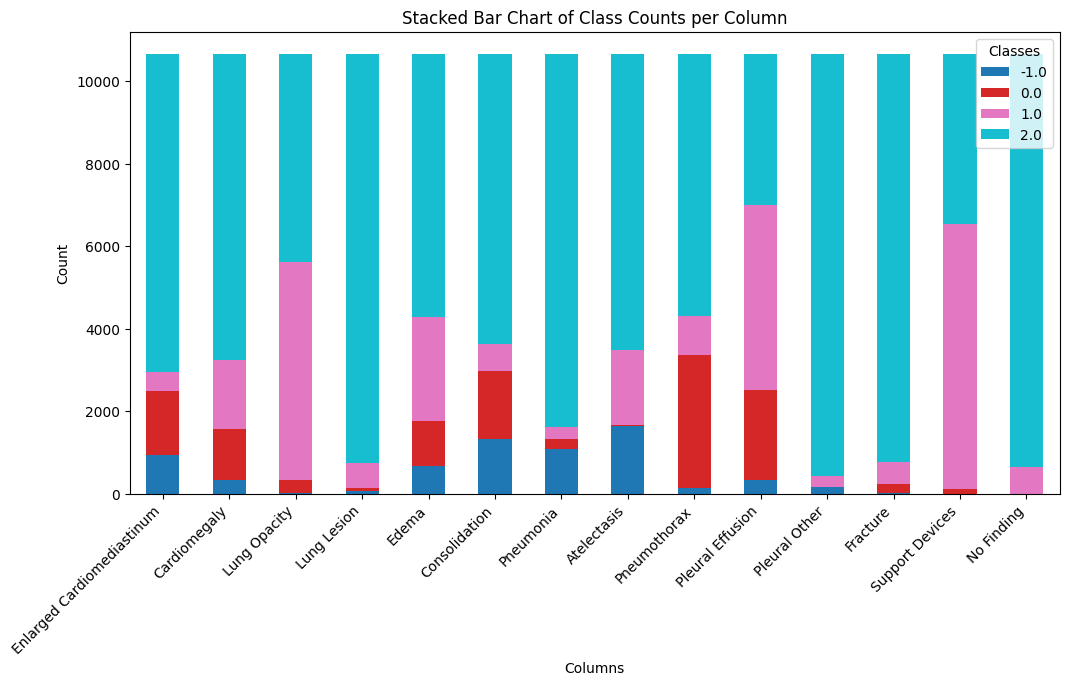
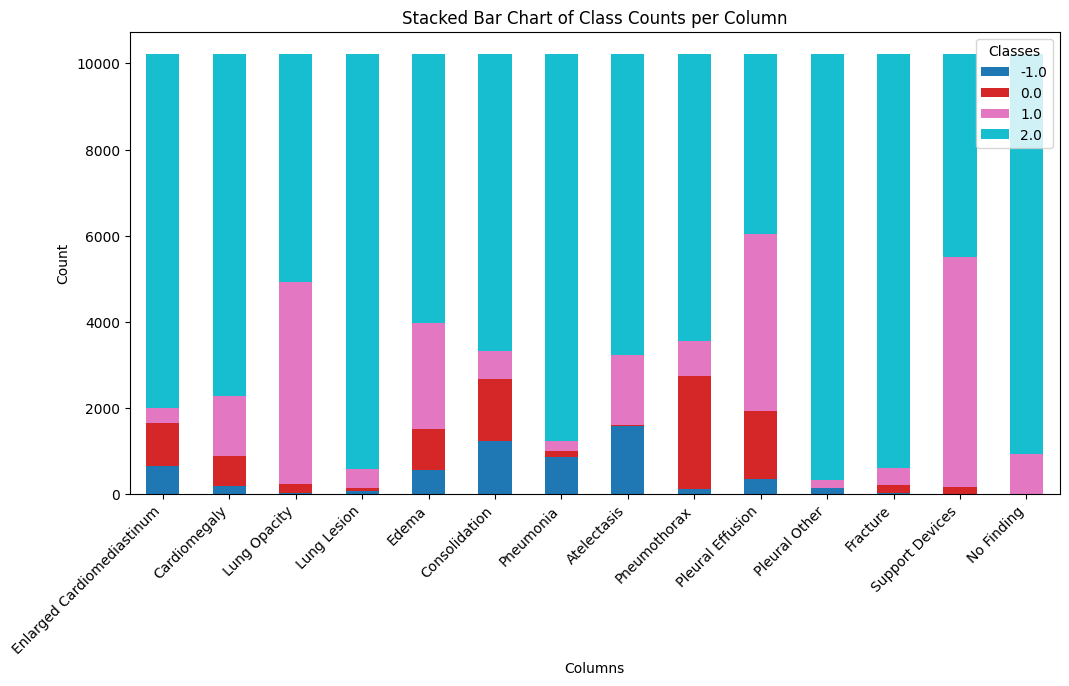
changed from report fixed to impression fixed

diff --git a/leaderboard/README.md b/leaderboard/README.md
@@ -13,7 +13,7 @@ For this leaderboard, we are using radiological reports dataset of chexpert plus
 
 About the Data:
 1. Using subset of the above data, the data above contains 187,711 reports, we would be using 10k subset from the above
-2. You can access the data on the above link, and file will be using "report_fixed.json", each report is classified into 14 pathological classes namely:
+2. You can access the data on the above link, and file will be using "impression_fixed.json", each report is classified into 14 pathological classes namely:
     1. Enlarged Cardiomediastinum, Cardiomegaly, Lung Opacity, Lung Lesion, Edema, Consolidation, Pneumonia, Atelectasis, Pneumothorax, Pleural Effusion, Pleural Other, Fracture, Support Devices, No Finding.
     2. Each class has multiple labels of 1 (positive), -1 (uncertain), 0 (negative), null (not mentioned) 
 3. Subset 10k (exact 10658), so, from the above dataset, goal is to find a subset with equal representation of classes. The graph for this subset is below
@@ -23,21 +23,64 @@ About the Data:
 ## Prompt engineering
 1. We will be using different techniques of prompt to reach to the ground truth
 2. Different prompts we would try would be:
-    1. zero-shot prompts: 
+    1. zero-shot prompt: 
+    2. one-shot promtp
     2. five shot prompts: 
     3. five shot prompts with chain of thought:
 
+### Different prompts
+So, here is the trial zero-shot prompt that was tried (it was generated by chatgpt, but you can obviously do it better):
+```
+{
+    "impression": [{
+    "role": "system", "content": "You are a radiologist whose goal is to read radiological reports and give user wanted outputs"}, {
+    "role": "user", "content": """You are an expert radiologist analyzing chest X-ray reports. Your task is to extract specific findings from the provided radiology report and output them in a structured dictionary format. Each finding can have one of the following values: 1 (Positive): The finding is explicitly mentioned as present. -1 (Uncertain): The report suggests uncertainty or possible presence of the finding. 0 (Negative): The finding is explicitly mentioned as absent. 2 (Not Mentioned)**: The report does not mention the finding at all. Expected Output Format:
+    Return your response in a valid dictionary format without explanations. Use the following structure: {
+    "Enlarged Cardiomediastinum": value,
+    "Cardiomegaly": value,
+    "Lung Opacity": value,
+    "Lung Lesion": value,
+    "Edema": value,
+    "Consolidation": value,
+    "Pneumonia": value,
+    "Atelectasis": value,
+    "Pneumothorax": value,
+    "Pleural Effusion": value,
+    "Pleural Other": value,
+    "Fracture": value,
+    "Support Devices": value,
+    "No Finding": value }. Here is the radilogical report that you need to read.""" + i + """
+    Please make sure return only dictionary , do not return any other text or explaination"""},
+    ], 
+    "token" : 300}
+```
+
+## Submit your prompts
+This is the google form, where you can submit your prompts, - [link](https://forms.gle/iYDssaV7oWAvEo3j7)
+What you need to submit
+1. A model preferrably hugging face link - that can run on 24 GB vRAM of GPU
+2. A prompt - any of the given shots. If you need access to reports, here is the link [Link to Chexpert](https://stanfordaimi.azurewebsites.net/datasets/5158c524-d3ab-4e02-96e9-6ee9efc110a1)
+
+
 ## Different model
-Use any open model available of any parameter, results will be displayed here
+Use any open model available of any parameter and activation, results will be displayed here
 
 ## Metrices that would be captured
-Recall, Specificty, Precision, NPV, Accuracy, F1-Score.
+1. Accuracy:
+    1. Label-wise accuracy: It captures, how many labels are correct
+    2. Record-wise accuracy: It captures, how many reports are correctly classified. It means that even if one label in the report is wrongly classified, then that record becomes inaccurate
 
 
-## Leaderboard graph
+## Leaderboard graph (WIP)
+
+The visible are done with experiments
+![leaderboard-graph](leaderboard_graph.png)
+
 
 
 ## To do
 - [ ] try different llama models
 
 
+## Restrictions
+1. For now being only evaluating model, that can be run locally and on 24 GB vRAM 
